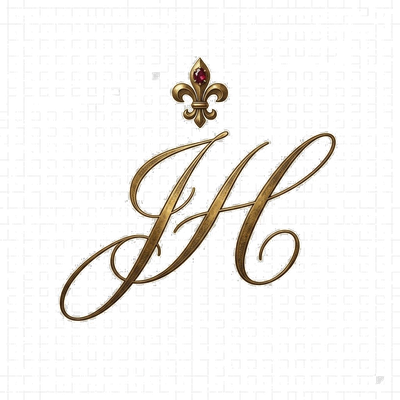
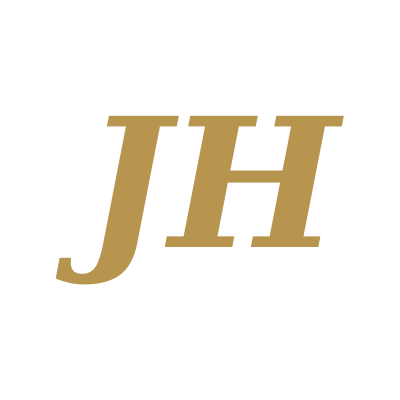
Add files via upload

diff --git a/essay.html b/essay.html
@@ -71,13 +71,19 @@
   <!-- ===== Full Paper ===== -->
   <div class="section-ornament">&#10086;</div>
   <h2>Introduction</h2>
-<p class="dropcap">Since 2013, the British creator Ruby Granger has uploaded more than nine hundred videos to a YouTube audience of nearly a million subscribers, who together have watched her work some 146 million times [25]. By any measure, her channel is among the most established in the niche that came to be called StudyTube, a genre in which young students film their own studious hours for viewers who treat productivity itself as the spectacle. Lawless [12] traces the form to the late 2010s, the years when conversations about student mental health and the cost of higher education entered the culture in earnest and the visual conventions of the genre began to settle. Granger&rsquo;s distinction lies not in invention but in execution. She works the shared vocabulary with a discipline that approaches the cinematic, and with an intertextual care that rewards the close reading we usually reserve for film. Her first viral upload, <em>How to Study Like Hermione Granger</em> [21], drew more than 150,000 views and established the literary persona that has organized hundreds of videos since. Pennings [19] has argued that analyzing a YouTube channel is not, in the end, very different from analyzing a film or a novel. Only the platform&rsquo;s commitment to realism is thinner, and the standard rules of perception are broken as a matter of routine. This essay takes that observation as a starting point and reads Ruby Granger&rsquo;s channel as a tightly composed audiovisual text rather than the casual record of a student&rsquo;s life.</p>
+<p class="dropcap">Since 2013, the British creator Ruby Granger has uploaded more than nine hundred videos to a YouTube audience of nearly a million subscribers, who together have watched her work some 146 million times [25]. By any measure, her channel is among the most established in the niche that came to be called StudyTube, a genre in which young students film their own studious hours for viewers who treat productivity itself as the spectacle. Lawless [12] traces the form to the late 2010s, the years when conversations about student mental health and the cost of higher education entered the culture in earnest and the visual conventions of the genre began to settle. Granger&rsquo;s distinction lies not in invention but in execution. She works the shared vocabulary with a discipline that approaches the cinematic, and with an intertextual care that rewards the close reading we usually reserve for film.</p>
 
-<p>The analysis that follows belongs to a particular intellectual tradition, and that tradition is worth reconstructing before it is put to work, since the value of any close reading depends on the rigor with which its vocabulary has been placed. The vocabulary used here belongs to a century of work on visual meaning that begins in the early twentieth century with the Soviet montage theorists Lev Kuleshov and Sergei Eisenstein, who proposed, in the immediate aftermath of the 1917 revolution, that meaning in moving images is produced not within the single shot but between them. The Soviet experiments belonged to a wider Constructivist movement in which the new state sought a properly modern visual language, and the Kuleshov Workshop at the State Institute of Cinematography (VGIK), founded in 1919, was the room in which the theory was made. The tradition continues through the structural and post-structural semiotics of Ferdinand de Saussure, Roland Barthes, and Charles Sanders Peirce, who refined the distinctions between signifier and signified, between denotation and connotation, between icon and index and symbol, that remain the working vocabulary of this analysis. Saussure&rsquo;s posthumous <em>Cours de linguistique g&eacute;n&eacute;rale</em> (1916) established the arbitrary character of the linguistic sign, and Barthes, in his 1957 <em>Mythologies</em>, extended that argument from language to cultural objects, giving its mature formulation to the second-order signification by which images come to carry ideology. The tradition is taken up in the 1970s by Laura Mulvey, whose 1975 <em>Screen</em> article on visual pleasure made the camera&rsquo;s gaze itself an object of feminist critique and inaugurated what would become a decades-long research program in cinematic spectatorship.</p>
+  <p>Her first viral upload, <em>How to Study Like Hermione Granger</em> [21], drew more than 150,000 views and established the literary persona that has organized hundreds of videos since. Pennings [19] has argued that analyzing a YouTube channel is not, in the end, very different from analyzing a film or a novel. Only the platform&rsquo;s commitment to realism is thinner, and the standard rules of perception are broken as a matter of routine. This essay takes that observation as a starting point and reads Ruby Granger&rsquo;s channel as a tightly composed audiovisual text rather than the casual record of a student&rsquo;s life.</p>
+
+<p>The analysis that follows belongs to a particular intellectual tradition, and that tradition is worth reconstructing before it is put to work, since the value of any close reading depends on the rigor with which its vocabulary has been placed. The vocabulary used here belongs to a century of work on visual meaning that begins in the early twentieth century with the Soviet montage theorists Lev Kuleshov and Sergei Eisenstein, who proposed, in the immediate aftermath of the 1917 revolution, that meaning in moving images is produced not within the single shot but between them. The Soviet experiments belonged to a wider Constructivist movement in which the new state sought a properly modern visual language, and the Kuleshov Workshop at the State Institute of Cinematography (VGIK), founded in 1919, was the room in which the theory was made.</p>
+
+<p>The tradition continues through the structural and post-structural semiotics of Ferdinand de Saussure, Roland Barthes, and Charles Sanders Peirce, who refined the distinctions between signifier and signified, between denotation and connotation, between icon and index and symbol, that remain the working vocabulary of this analysis. Saussure&rsquo;s posthumous <em>Cours de linguistique g&eacute;n&eacute;rale</em> (1916) established the arbitrary character of the linguistic sign, and Barthes, in his 1957 <em>Mythologies</em>, extended that argument from language to cultural objects, giving its mature formulation to the second-order signification by which images come to carry ideology. The tradition is taken up in the 1970s by Laura Mulvey, whose 1975 <em>Screen</em> article on visual pleasure made the camera&rsquo;s gaze itself an object of feminist critique and inaugurated what would become a decades-long research program in cinematic spectatorship.</p>
 
 <p></p>
 
-  <p>Daniel Chandler&rsquo;s short text <em>The Grammar of Television and Film</em> (1994) condenses much of this tradition for the small screen and provides the working vocabulary on which the present analysis draws. Stuart Hall&rsquo;s broader theory of cultural representation, developed at the Birmingham Centre for Contemporary Cultural Studies in the 1970s and consolidated in his 1997 textbook on representation, gives us the frame for treating popular images as sites of contested meaning rather than as transparent windows on the world. Margaret Morse&rsquo;s 1986 essay on the television news personality, published in the Modleski-edited volume <em>Studies in Entertainment</em>, applied the same broadly post-Marxist insights to the construction of broadcast authority, and it remains the most thorough account of the anchor figure in English-language media studies. David Bordwell and Kristin Thompson&rsquo;s <em>Film Art. An Introduction</em>, now in its twelfth edition (2019), is the standard university textbook through which most of this material is taught today, and the categorization of mise-en-sc&egrave;ne into setting, costume, lighting, and staging that organizes the second section of this paper is drawn directly from that book. Jay David Bolter and Richard Grusin&rsquo;s <em>Remediation</em> (2000) supplies the frame for analyzing how new media inherit and rework the conventions of older ones. Anthony Pennings&rsquo;s three articles on YouTube [16, 18, 19], together with his 2018 essay on anchoring television news [17], apply this whole tradition to the YouTube channel and provide the immediate analytical model for the present paper.</p>
+  <p>Daniel Chandler&rsquo;s short text <em>The Grammar of Television and Film</em> (1994) condenses much of this tradition for the small screen and provides the working vocabulary on which the present analysis draws. Stuart Hall&rsquo;s broader theory of cultural representation, developed at the Birmingham Centre for Contemporary Cultural Studies in the 1970s and consolidated in his 1997 textbook on representation, gives us the frame for treating popular images as sites of contested meaning rather than as transparent windows on the world. Margaret Morse&rsquo;s 1986 essay on the television news personality, published in the Modleski-edited volume <em>Studies in Entertainment</em>, applied the same broadly post-Marxist insights to the construction of broadcast authority, and it remains the most thorough account of the anchor figure in English-language media studies.</p>
+
+  <p>David Bordwell and Kristin Thompson&rsquo;s <em>Film Art. An Introduction</em>, now in its twelfth edition (2019), is the standard university textbook through which most of this material is taught today, and the categorization of mise-en-sc&egrave;ne into setting, costume, lighting, and staging that organizes the second section of this paper is drawn directly from that book. Jay David Bolter and Richard Grusin&rsquo;s <em>Remediation</em> (2000) supplies the frame for analyzing how new media inherit and rework the conventions of older ones. Anthony Pennings&rsquo;s three articles on YouTube [16, 18, 19], together with his 2018 essay on anchoring television news [17], apply this whole tradition to the YouTube channel and provide the immediate analytical model for the present paper.</p>
 
 <p></p>
 
@@ -139,7 +145,9 @@
 
 <p></p>
 
-  <p>Each item on the desk is what Peirce [15] called an icon, a sign that resembles the qualities it signifies. The hardcover book resembles, and therefore signifies, slow and serious reading rather than the fast consumption associated with screens. The fountain pen resembles an older mode of writing that requires attention and care. The ceramic teacup resembles a Victorian morning ritual that connects backward to Isabella Beeton&rsquo;s 1861 <em>Book of Household Management</em>, the canonical Victorian domestic manual whose morning sequences, the lighting of the fire, the laying of the breakfast service, the opening of the post, established the rhythm of the bourgeois English morning as a culturally codified sequence that subsequent generations have continued to cite. The dried flowers signify a domestic interior that values composition over disposability, and their particular form, an arrangement of muted papery botanical material rather than fresh-cut blooms, signals the channel&rsquo;s preferred temporality, a present that holds onto the past rather than discarding it. Taken together, these icons construct what Barthes [2] calls a second-order signification, a cultural myth in which student life is reframed as a pastoral and literary practice rather than a contemporary digital one. The myth has a specific iconographic ancestry worth naming.</p>
+  <p>Each item on the desk is what Peirce [15] called an icon, a sign that resembles the qualities it signifies. The hardcover book resembles, and therefore signifies, slow and serious reading rather than the fast consumption associated with screens. The fountain pen resembles an older mode of writing that requires attention and care. The ceramic teacup resembles a Victorian morning ritual that connects backward to Isabella Beeton&rsquo;s 1861 <em>Book of Household Management</em>, the canonical Victorian domestic manual whose morning sequences, the lighting of the fire, the laying of the breakfast service, the opening of the post, established the rhythm of the bourgeois English morning as a culturally codified sequence that subsequent generations have continued to cite.</p>
+
+  <p>The dried flowers signify a domestic interior that values composition over disposability, and their particular form, an arrangement of muted papery botanical material rather than fresh-cut blooms, signals the channel&rsquo;s preferred temporality, a present that holds onto the past rather than discarding it. Taken together, these icons construct what Barthes [2] calls a second-order signification, a cultural myth in which student life is reframed as a pastoral and literary practice rather than a contemporary digital one. The myth has a specific iconographic ancestry worth naming.</p>
 
   <p>The visual register draws on the Pre-Raphaelite Brotherhood, the mid-nineteenth-century English painting circle around Dante Gabriel Rossetti and Edward Burne-Jones whose canvases established the now-familiar visual code in which young women read books in soft natural light beside vases of dried flowers, and on the Edwardian school story tradition, the genre of girls&rsquo; boarding-school novels developed by Angela Brazil in the early twentieth century whose scenes of dormitory study, prep, and morning routine established a visual repertoire that has since been continuously rearticulated in British children&rsquo;s literature, most recently in the Harry Potter sequence itself.</p>
 
@@ -185,19 +193,25 @@
 
   <p>Andr&eacute; Bazin, writing in the early 1950s in <em>Cahiers du cin&eacute;ma</em>, mounted the most influential counterargument to the Soviet position, defending the long take and the deep-focus shot as cinematic forms that preserved the ambiguity and density of the real, and the debate between Eisenstein-Kuleshov montage on the one hand and Bazinian long take on the other has organized the theory of editing ever since. Bordwell and Thompson [4], in the chapter &ldquo;The Relation of Shot to Shot. Editing&rdquo; of <em>Film Art</em>, systematize the inherited tradition for contemporary film students through four categories of editing relation, graphic, rhythmic, spatial, and temporal. Chandler [5] supplies a complementary vocabulary that includes the jump cut, the matched cut, invisible editing, and the long take. Ruby Granger&rsquo;s channel uses two opposed editing strategies that derive from this lineage, the Hollywood continuity tradition descended from Kuleshov-Eisenstein and the long take tradition defended by Bazin, and the two together produce the channel&rsquo;s emotional range.</p>
 
-<p>The morning routine videos use what Chandler [5] calls &ldquo;invisible editing,&rdquo; the Hollywood style of matched and motivated cuts in which the labor of editing is concealed behind the appearance of continuous action. At the denotative level, a typical sequence in <em>Hermione Granger&rsquo;s Magical Morning Routine</em> [22] shows the host reaching for a teacup in one shot, the cup being lifted to her lips in the next, and steam rising past her face in the third, with each cut placed precisely on the motion of the hand. At the connotative level, this invisible editing produces the impression of an unbroken, almost dreamlike progression through a quiet morning, and the cumulative effect is that the viewer experiences a compressed but seamless hour rather than a fragmented series of moments. The Kuleshov effect operates here in a quietly powerful way. The same close-up of the host&rsquo;s face would read differently if it were preceded by shots of clutter, frustration, or noise. It follows shots of books, tea, and rain, and is therefore read as serene concentration. Meaning is generated not in the close-up itself but in the sequence the close-up completes, and the channel&rsquo;s consistent use of motivated cuts therefore inherits the most fundamental principle of the Soviet tradition even as it strips that principle of its original political content.</p>
+<p>The morning routine videos use what Chandler [5] calls &ldquo;invisible editing,&rdquo; the Hollywood style of matched and motivated cuts in which the labor of editing is concealed behind the appearance of continuous action. At the denotative level, a typical sequence in <em>Hermione Granger&rsquo;s Magical Morning Routine</em> [22] shows the host reaching for a teacup in one shot, the cup being lifted to her lips in the next, and steam rising past her face in the third, with each cut placed precisely on the motion of the hand. At the connotative level, this invisible editing produces the impression of an unbroken, almost dreamlike progression through a quiet morning, and the cumulative effect is that the viewer experiences a compressed but seamless hour rather than a fragmented series of moments.</p>
+
+  <p>The Kuleshov effect operates here in a quietly powerful way. The same close-up of the host&rsquo;s face would read differently if it were preceded by shots of clutter, frustration, or noise. It follows shots of books, tea, and rain, and is therefore read as serene concentration. Meaning is generated not in the close-up itself but in the sequence the close-up completes, and the channel&rsquo;s consistent use of motivated cuts therefore inherits the most fundamental principle of the Soviet tradition even as it strips that principle of its original political content.</p>
 
 <p></p>
 
   <p>The contrast between the jump cut and the matched cut, a distinction emphasized in the EST 240 test review, helps specify what this editing achieves. Chandler [5] defines the jump cut as an abrupt switch between similar shots that disrupts continuity, while the matched cut creates a smooth connection between two shots by using similar action, direction, or visual focus. The jump cut was given its iconic modern form by Jean-Luc Godard&rsquo;s <em>&Agrave; bout de souffle</em> (1960) and entered the YouTube vlog tradition through its widespread use by twenty-first-century creators who treat the technique as a marker of authentic, unedited spontaneity.</p>
 
-  <p>Ruby Granger&rsquo;s morning routines almost never use the jump cut, and the avoidance is significant. The disruption the jump cut signifies, a break in the continuity of the world, would undermine the literary persona the channel works so hard to sustain. The matched cut, by contrast, sustains the impression of a coherent and continuous space, which is precisely what the connotation of the morning routine requires. The signifier here is a class of editing transitions, and the signified is the cultural concept of a calm and ordered domestic life. Pennings [16] makes a related point in his discussion of YouTube meaning-creating practices, observing that the platform&rsquo;s most influential creators borrow heavily from the continuity conventions of classical Hollywood while adapting them to the shorter durations and more intimate framings that YouTube viewing habits require. The historical irony of this borrowing is worth registering. The continuity system the morning routines use was originally developed in the silent feature film of the 1910s and 1920s precisely to render editing invisible to audiences whose viewing habits had been formed by the proscenium theatre, and the same system now serves to render YouTube editing invisible to audiences whose viewing habits have been formed by smartphone scrolling, which suggests that the underlying psychological work of continuity editing remains stable across radically different media environments.</p>
+  <p>Ruby Granger&rsquo;s morning routines almost never use the jump cut, and the avoidance is significant. The disruption the jump cut signifies, a break in the continuity of the world, would undermine the literary persona the channel works so hard to sustain. The matched cut, by contrast, sustains the impression of a coherent and continuous space, which is precisely what the connotation of the morning routine requires. The signifier here is a class of editing transitions, and the signified is the cultural concept of a calm and ordered domestic life.</p>
+
+  <p>Pennings [16] makes a related point in his discussion of YouTube meaning-creating practices, observing that the platform&rsquo;s most influential creators borrow heavily from the continuity conventions of classical Hollywood while adapting them to the shorter durations and more intimate framings that YouTube viewing habits require. The historical irony of this borrowing is worth registering. The continuity system the morning routines use was originally developed in the silent feature film of the 1910s and 1920s precisely to render editing invisible to audiences whose viewing habits had been formed by the proscenium theatre, and the same system now serves to render YouTube editing invisible to audiences whose viewing habits have been formed by smartphone scrolling, which suggests that the underlying psychological work of continuity editing remains stable across radically different media environments.</p>
 
 <p></p>
 
   <p>The Study With Me videos use the opposite editing strategy. Chandler [5] defines the long take as &ldquo;a single shot lasting a relatively lengthy period of time&rdquo; and observes that the long take has an &ldquo;authentic feel since it is not inherently dramatic.&rdquo; The long take has been the subject of intermittent critical attention since Bazin&rsquo;s influential defense of it in the early 1950s, and its return to cultural prominence in the 2010s, through such phenomena as Lo-fi study music streams, ASMR videos, and the Study With Me genre that Ruby Granger&rsquo;s channel exemplifies, deserves to be situated within a broader history of mediatized contemplation that extends backward through television&rsquo;s long format documentaries and slow cinema, Tarr, Tarkovsky, Akerman, to the contemplative still photography of the early twentieth century.</p>
 
-  <p>A two-hour Study With Me session is, at the level of editing, almost entirely composed of long takes, with the camera fixed on the host at her desk and the only changes being the natural movement of her hands and the slow shift of light through the window. <em>12 Hour Study With Me Easter Holidays</em> [23] takes the format to its limit, presenting an entire study day as an unbroken or only lightly cut sequence. At the denotative level the format presents an unedited block of time. At the connotative level, the absence of cuts signifies authenticity in the strongest sense available within the cinematic grammar, since the viewer is given access to time as it actually unfolds rather than to time as it has been compressed for narrative effect. Where Eisenstein [6] argued that meaning in cinema arises from the collision of shots, Ruby Granger&rsquo;s long takes produce meaning through the deliberate withholding of cuts. The intensity here is grounded in duration rather than juxtaposition, and the channel&rsquo;s decision to alternate between Eisensteinian compression in the morning routines and Bazinian extension in the Study With Me videos demonstrates an unusually sophisticated grasp of the montage tradition&rsquo;s full range, even if the channel&rsquo;s creator may not articulate the choice in those theoretical terms.</p>
+  <p>A two-hour Study With Me session is, at the level of editing, almost entirely composed of long takes, with the camera fixed on the host at her desk and the only changes being the natural movement of her hands and the slow shift of light through the window. <em>12 Hour Study With Me Easter Holidays</em> [23] takes the format to its limit, presenting an entire study day as an unbroken or only lightly cut sequence. At the denotative level the format presents an unedited block of time. At the connotative level, the absence of cuts signifies authenticity in the strongest sense available within the cinematic grammar, since the viewer is given access to time as it actually unfolds rather than to time as it has been compressed for narrative effect.</p>
+
+  <p>Where Eisenstein [6] argued that meaning in cinema arises from the collision of shots, Ruby Granger&rsquo;s long takes produce meaning through the deliberate withholding of cuts. The intensity here is grounded in duration rather than juxtaposition, and the channel&rsquo;s decision to alternate between Eisensteinian compression in the morning routines and Bazinian extension in the Study With Me videos demonstrates an unusually sophisticated grasp of the montage tradition&rsquo;s full range, even if the channel&rsquo;s creator may not articulate the choice in those theoretical terms.</p>
 
 <p></p>
 
@@ -247,7 +261,11 @@
   <h2>Conclusion</h2>
 <p class="dropcap"></p>
 
-  <p>Read through Pennings&rsquo;s [19] framework of the three M&rsquo;s, Ruby Granger&rsquo;s channel reveals itself as a carefully coordinated exercise in visual rhetoric whose discipline becomes visible only when the analysis attends to the longer intellectual tradition the framework condenses. The host, framed in talk to camera and supported by measured voice-over, performs the anchor function the lineage from Morse [13] through Pennings [17] and Hall [8] has described as the construction of credibility through tone, address, and self-presentation, and her ethos, pathos, and logos work in combination as Aristotle [1] long ago specified in the <em>Rhetoric</em>. The borrowed name of Hermione Granger supplies the cultural symbol, in Peirce&rsquo;s [15] sense, that organizes that credibility, and the symbol&rsquo;s effectiveness derives from a particular post-1997 British literary moment that has now become a stable cultural shorthand for the figure of the disciplined young scholar. The mise-en-sc&egrave;ne, analyzed through the four Bordwell-Thompson [4] categories of setting, costume, lighting, and staging, denotes a particular set of material details and connotes a literary myth of scholarship whose nineteenth-century iconographic ancestry, Pre-Raphaelite painting, Edwardian school story, Beeton&rsquo;s [26] domestic manual, makes its present-day power possible, and whose mechanism Barthes&rsquo;s [2] account of second-order signification and Mulvey&rsquo;s [14] account of cinematic looking help to explain. The montage, alternating between invisible Hollywood editing in the morning routines and Eisensteinian-Bazinian long takes in the Study With Me sessions, demonstrates that the channel&rsquo;s coherence is the product of editing decisions rooted in the Kuleshov-Eisenstein [10, 6] tradition as much as of the host or the mise-en-sc&egrave;ne, and that the channel&rsquo;s creator has effectively rediscovered, perhaps without theoretical articulation, the full range of editing strategies the Soviet-Bazinian debate of the twentieth century made available.</p>
+  <p>Read through Pennings&rsquo;s [19] framework of the three M&rsquo;s, Ruby Granger&rsquo;s channel reveals itself as a carefully coordinated exercise in visual rhetoric whose discipline becomes visible only when the analysis attends to the longer intellectual tradition the framework condenses. The host, framed in talk to camera and supported by measured voice-over, performs the anchor function the lineage from Morse [13] through Pennings [17] and Hall [8] has described as the construction of credibility through tone, address, and self-presentation, and her ethos, pathos, and logos work in combination as Aristotle [1] long ago specified in the <em>Rhetoric</em>. The borrowed name of Hermione Granger supplies the cultural symbol, in Peirce&rsquo;s [15] sense, that organizes that credibility, and the symbol&rsquo;s effectiveness derives from a particular post-1997 British literary moment that has now become a stable cultural shorthand for the figure of the disciplined young scholar.</p>
+
+  <p>The mise-en-sc&egrave;ne, analyzed through the four Bordwell-Thompson [4] categories of setting, costume, lighting, and staging, denotes a particular set of material details and connotes a literary myth of scholarship whose nineteenth-century iconographic ancestry, Pre-Raphaelite painting, Edwardian school story, Beeton&rsquo;s [26] domestic manual, makes its present-day power possible, and whose mechanism Barthes&rsquo;s [2] account of second-order signification and Mulvey&rsquo;s [14] account of cinematic looking help to explain.</p>
+
+  <p>The montage, alternating between invisible Hollywood editing in the morning routines and Eisensteinian-Bazinian long takes in the Study With Me sessions, demonstrates that the channel&rsquo;s coherence is the product of editing decisions rooted in the Kuleshov-Eisenstein [10, 6] tradition as much as of the host or the mise-en-sc&egrave;ne, and that the channel&rsquo;s creator has effectively rediscovered, perhaps without theoretical articulation, the full range of editing strategies the Soviet-Bazinian debate of the twentieth century made available.</p>
 
   <p>The metrics confirm that this construction has found a sustained interpretive community of nearly one million subscribers [25], and the StudyTube genre, situated by Lawless [12] within the post-2008 cultural moment, provides the cultural frame in which the channel&rsquo;s practices are recognized as meaningful.</p>
 
@@ -259,7 +277,9 @@
 
   <p>The analysis carries three limitations that further research could productively address. First, the paper analyzes a single channel rather than a comparative sample, and a properly comparative analysis of StudyTube would benefit from systematic juxtaposition with channels that mobilize similar codes toward different effects, the South Korean Study With Me genre, for example, or the American university lifestyle vlog. Second, the paper draws its theoretical apparatus from the European-American tradition and would benefit from extension into the Korean visual culture scholarship within which the present author is also working. Third, the paper relies primarily on close reading of selected videos rather than on quantitative analysis of upload patterns, comment data, or audience surveys, all of which could supply useful empirical complements to the textual work undertaken here.</p>
 
-  <p>The case of Ruby Granger ultimately suggests three points that exceed the channel itself and that the present paper offers as its broader contribution. First, the most influential vlogs are not those that record reality most faithfully but those that coordinate the three M&rsquo;s most coherently, those that invite their viewers to live inside the world the three M&rsquo;s construct. Second, the analytical vocabulary developed by Kuleshov, Eisenstein, Barthes, Peirce, Saussure, Mulvey, Chandler, Hall, Morse, Bordwell and Thompson, Bolter and Grusin, Bourdieu, Williams, Jenkins, and Banet-Weiser remains directly applicable to platforms those scholars could not have anticipated, which suggests that the visual grammar of the twentieth century is not displaced by digital media but inherited and reworked by it, exactly as Bolter and Grusin [3] predicted in their account of remediation. Third, the most rigorous reading of a channel like Ruby Granger&rsquo;s requires holding two registers in mind at once, the descriptive register that records what the channel does and the critical register, of which Lawless&rsquo;s [12] essay is the most cogent example, that asks whose interests the channel&rsquo;s codes serve. The analyst of YouTube, in this sense, is the analyst of cinema by other means, and the rigor of the analysis depends on refusing to let the platform&rsquo;s informality conceal the seriousness of its conventions.</p>
+  <p>The case of Ruby Granger ultimately suggests three points that exceed the channel itself and that the present paper offers as its broader contribution. First, the most influential vlogs are not those that record reality most faithfully but those that coordinate the three M&rsquo;s most coherently, those that invite their viewers to live inside the world the three M&rsquo;s construct. Second, the analytical vocabulary developed by Kuleshov, Eisenstein, Barthes, Peirce, Saussure, Mulvey, Chandler, Hall, Morse, Bordwell and Thompson, Bolter and Grusin, Bourdieu, Williams, Jenkins, and Banet-Weiser remains directly applicable to platforms those scholars could not have anticipated, which suggests that the visual grammar of the twentieth century is not displaced by digital media but inherited and reworked by it, exactly as Bolter and Grusin [3] predicted in their account of remediation.</p>
+
+  <p>Third, the most rigorous reading of a channel like Ruby Granger&rsquo;s requires holding two registers in mind at once, the descriptive register that records what the channel does and the critical register, of which Lawless&rsquo;s [12] essay is the most cogent example, that asks whose interests the channel&rsquo;s codes serve. The analyst of YouTube, in this sense, is the analyst of cinema by other means, and the rigor of the analysis depends on refusing to let the platform&rsquo;s informality conceal the seriousness of its conventions.</p>
 
 
 